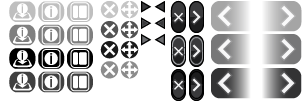
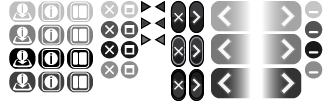
m

diff --git a/framethrower/branches/v1.5.5/css/style.css b/framethrower/branches/v1.5.5/css/style.css
@@ -680,6 +680,36 @@ buttons
 	height: 18px;
 }
 
+.minimizeInactive {
+	background-image: url(../images/zui.1/buttons.png);
+	background-position: -304px -1px;
+	width: 19px;
+	height: 18px;
+}
+
+.minimize:hover {
+	background-image: url(../images/zui.1/buttons.png);
+	background-position: -304px -21px;
+	width: 19px;
+	height: 18px;
+}
+
+.minimize:active {
+	background-image: url(../images/zui.1/buttons.png);
+	background-position: -304px -41px;
+	width: 19px;
+	height: 18px;
+}
+
+.minimize {
+	background-image: url(../images/zui.1/buttons.png);
+	background-position: -304px -61px;
+	width: 19px;
+	height: 18px;
+}
+
+
+
 .railScrollRight {
 	background-image: url(../images/zui.1/buttons.png);
 	background-position: -141px -1px;
